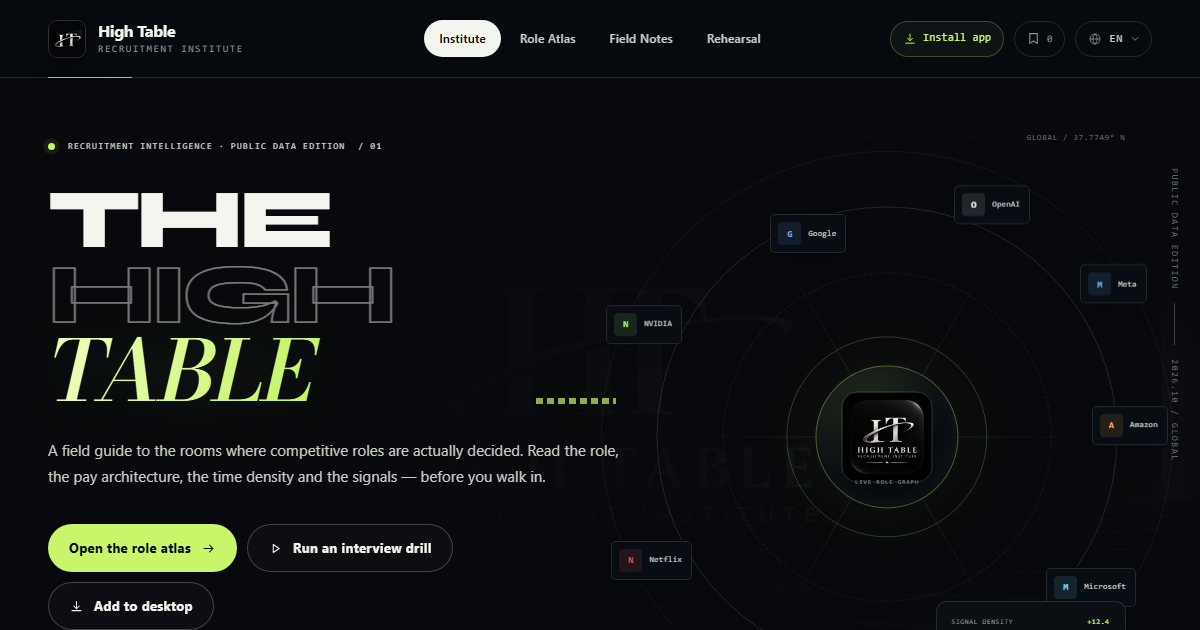
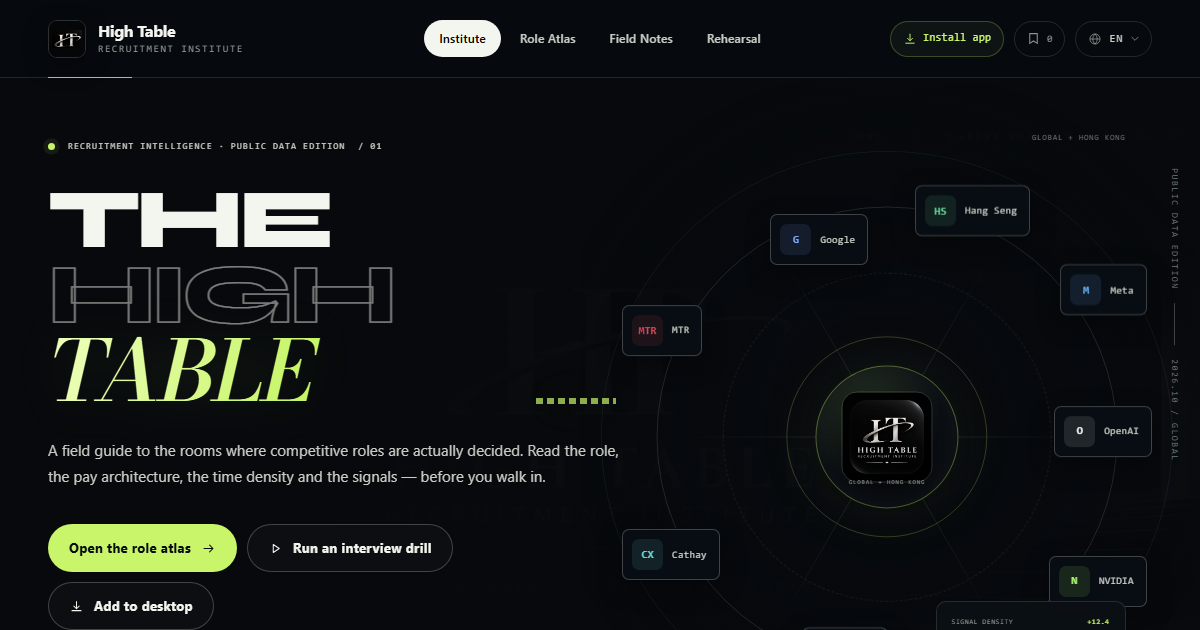
Add files via upload

diff --git a/styles.css b/styles.css
@@ -1114,6 +1114,20 @@ html[data-lang="zh"] .section-head h2 {
   min-height: 610px;
 }
 
+.hero-visual::before {
+  content: "";
+  position: absolute;
+  z-index: 0;
+  inset: -8%;
+  background: radial-gradient(
+    circle at 50% 47%,
+    rgba(7, 10, 15, 0.82) 0%,
+    rgba(7, 10, 15, 0.48) 44%,
+    rgba(7, 10, 15, 0) 72%
+  );
+  pointer-events: none;
+}
+
 .visual-coordinate {
   position: absolute;
   color: var(--muted-2);
@@ -1134,6 +1148,7 @@ html[data-lang="zh"] .section-head h2 {
 
 .signal-orbit {
   position: relative;
+  z-index: 1;
   width: min(100%, 590px);
   aspect-ratio: 1;
   margin-left: auto;
@@ -1234,12 +1249,12 @@ html[data-lang="zh"] .section-head h2 {
   position: absolute;
   display: flex;
   align-items: center;
-  gap: 7px;
-  padding: 7px 9px 7px 7px;
-  border: 1px solid var(--line);
-  border-radius: 5px;
-  background: rgba(9, 14, 20, 0.88);
-  box-shadow: 0 6px 20px rgba(0, 0, 0, 0.2);
+  gap: 9px;
+  padding: 9px 12px 9px 9px;
+  border: 1px solid var(--line-strong);
+  border-radius: 7px;
+  background: rgba(9, 14, 20, 0.94);
+  box-shadow: 0 8px 24px rgba(0, 0, 0, 0.34);
   backdrop-filter: blur(8px);
   animation: nodeFloat 6s ease-in-out infinite;
 }
@@ -1259,13 +1274,13 @@ html[data-lang="zh"] .section-head h2 {
 
 .node-mark {
   display: grid;
-  width: 23px;
-  height: 23px;
-  border-radius: 4px;
+  width: 31px;
+  height: 31px;
+  border-radius: 7px;
   color: var(--node-color, var(--paper));
   background: color-mix(in srgb, var(--node-color, var(--paper)) 11%, transparent);
   font-family: var(--font-mono);
-  font-size: 9px;
+  font-size: 11px;
   font-weight: 700;
   place-items: center;
 }
@@ -1273,17 +1288,18 @@ html[data-lang="zh"] .section-head h2 {
 .node-name {
   color: var(--paper-soft);
   font-family: var(--font-mono);
-  font-size: 8px;
+  font-size: 10px;
+  font-weight: 500;
   letter-spacing: 0.03em;
 }
 
 .node-1 { top: 8%; left: 28%; }
 .node-2 { top: 18%; right: 1%; }
-.node-3 { top: 45%; right: -3%; }
-.node-4 { bottom: 18%; right: 3%; }
+.node-3 { top: 45%; right: 0; }
+.node-4 { bottom: 18%; right: 1%; }
 .node-5 { bottom: 4%; left: 34%; }
-.node-6 { bottom: 23%; left: -2%; }
-.node-7 { top: 26%; left: -3%; }
+.node-6 { bottom: 23%; left: 0; }
+.node-7 { top: 26%; left: 0; }
 .node-8 { top: 3%; right: 23%; }
 
 .orbit-readout {
@@ -4735,26 +4751,29 @@ html[data-lang="zh"] .section-head h2 {
   }
 
   .orbit-node {
-    padding: 5px 6px;
+    gap: 6px;
+    padding: 7px 8px 7px 7px;
+    border-radius: 6px;
   }
 
   .node-mark {
-    width: 20px;
-    height: 20px;
-    font-size: 8px;
+    width: 24px;
+    height: 24px;
+    border-radius: 6px;
+    font-size: 9px;
   }
 
   .node-name {
-    font-size: 7px;
+    font-size: 8px;
   }
 
   .node-1 { top: 5%; left: 21%; }
   .node-2 { top: 12%; right: 0; }
-  .node-3 { top: 43%; right: -2%; }
+  .node-3 { top: 43%; right: -1%; }
   .node-4 { bottom: 16%; right: 0; }
   .node-5 { bottom: 0; left: 25%; }
-  .node-6 { bottom: 20%; left: -2%; }
-  .node-7 { top: 24%; left: -2%; }
+  .node-6 { bottom: 20%; left: -1%; }
+  .node-7 { top: 24%; left: -1%; }
   .node-8 { top: 0; right: 18%; }
 
   .orbit-readout {

diff --git a/app.js b/app.js
@@ -437,7 +437,14 @@ function render() {
 }
 
 function renderHomePage() {
-  const orbitCompanies = COMPANIES.slice(0, 8);
+  const hongKongOrbit = ["hkex", "cathay", "mtr", "hangseng"];
+  const orbitIds =
+    state.lang === "zh"
+      ? ["huawei", "bytedance", "tencent", "alibaba", ...hongKongOrbit]
+      : ["google", "meta", "openai", "nvidia", ...hongKongOrbit];
+  const orbitCompanies = orbitIds.map(getCompany).filter(Boolean);
+  const orbitScope =
+    state.lang === "zh" ? t("home.orbitScopeCn") : t("home.orbitScopeGlobal");
   const payArchetypes = [
     { label: t("home.payAi"), mix: { base: 50, bonus: 0, equity: 50 } },
     { label: t("home.payBigTech"), mix: { base: 60, bonus: 12, equity: 28 } },
@@ -464,9 +471,15 @@ function renderHomePage() {
   const orbitNodes = orbitCompanies
     .map(
       (company, index) => `
-        <div class="orbit-node node-${index + 1}" style="--node-color:${company.color}">
+        <div class="orbit-node node-${index + 1}" style="--node-color:${company.color}" title="${escapeHtml(company.name)}">
           <span class="node-mark">${escapeHtml(company.mark)}</span>
-          <span class="node-name">${escapeHtml(company.name)}</span>
+          <span class="node-name">${escapeHtml(
+            company.id === "cathay"
+              ? "Cathay"
+              : company.id === "hangseng"
+                ? "Hang Seng"
+                : company.name
+          )}</span>
         </div>`
     )
     .join("");
@@ -504,7 +517,7 @@ function renderHomePage() {
         </div>
       </div>
       <div class="hero-visual">
-        <span class="visual-coordinate top">GLOBAL / 37.7749° N</span>
+        <span class="visual-coordinate top">${orbitScope}</span>
         <span class="visual-coordinate left">PUBLIC SIGNAL / 2026.10</span>
         <div class="signal-orbit" aria-label="${t("home.orbitLabel")}">
           <span class="orbit-ring ring-1"></span>
@@ -516,7 +529,7 @@ function renderHomePage() {
           <span class="orbit-axis axis-c"></span>
           <div class="orbit-core">
             <img class="orbit-logo" src="./assets/high-table-logo.jpg" alt="High Table Recruitment Institute">
-            <span class="orbit-core-label">${t("home.orbitLabel")}</span>
+            <span class="orbit-core-label">${orbitScope}</span>
           </div>
           ${orbitNodes}
           <div class="orbit-readout">

diff --git a/i18n.js b/i18n.js
@@ -104,6 +104,8 @@ export const UI = {
       statPrompts: "rehearsal prompts",
       statLanguages: "working languages",
       orbitLabel: "LIVE ROLE GRAPH",
+      orbitScopeGlobal: "GLOBAL + HONG KONG",
+      orbitScopeCn: "MAINLAND + HONG KONG",
       readoutLabel: "SIGNAL DENSITY",
       readoutFoot: "{companies} firms · 6 tracks · 3 markets",
       tickerLabel: "THE TABLE",
@@ -547,6 +549,8 @@ export const UI = {
       statPrompts: "道模拟题",
       statLanguages: "种工作语言",
       orbitLabel: "实时岗位图谱",
+      orbitScopeGlobal: "国际企业 + 香港",
+      orbitScopeCn: "中国大陆 + 香港",
       readoutLabel: "信号密度",
       readoutFoot: "{companies} 家公司 · 6 个方向 · 3 个市场",
       tickerLabel: "主桌",
@@ -587,7 +591,7 @@ export const UI = {
       densityDesc: "时间稠密度综合专注负荷、周强度、on-call、会议面与变化压力。分数之外，请继续追问真实工作。",
       densityFootnote: "稠密度由岗位结构与公开员工信号综合判断，不是雇主官方指标。",
       showcaseKicker: "主桌",
-      showcaseTitle: "主桌继续扩展，每家公司都有自己的“强”",
+      showcaseTitle: "更多企业，各有各的“强”",
       showcaseDesc: "公司层面的信号很重要：同一种能力，在不同运营节奏、决策权与证据流动方式中，会被赋予不同价值。",
       showcaseCta: "查看全部岗位",
       rolesBriefs: "{n} 份画像",
@@ -990,6 +994,8 @@ export const UI = {
       statPrompts: "questions d'entraînement",
       statLanguages: "langues de travail",
       orbitLabel: "GRAPHE DE RÔLES",
+      orbitScopeGlobal: "INTERNATIONAL + HONG KONG",
+      orbitScopeCn: "CHINE CONTINENTALE + HONG KONG",
       readoutLabel: "DENSITÉ DU SIGNAL",
       readoutFoot: "{companies} firmes · 6 familles · 3 marchés",
       tickerLabel: "LA TABLE",

diff --git a/sw.js b/sw.js
@@ -1,4 +1,4 @@
-const CACHE_NAME = "high-table-shell-v9";
+const CACHE_NAME = "high-table-shell-v11";
 const APP_SHELL = [
   "./",
   "./index.html",
@@ -18,8 +18,10 @@ const APP_SHELL = [
   "./assets/icons/favicon-rounded.ico",
   "./assets/icons/favicon-rounded-32.png",
   "./assets/icons/favicon-rounded-64.png",
-  "./assets/icons/icon-192.png",
-  "./assets/icons/icon-512.png",
+  "./assets/icons/icon-rounded-192.png",
+  "./assets/icons/icon-rounded-256.png",
+  "./assets/icons/icon-rounded-384.png",
+  "./assets/icons/icon-rounded-512.png",
   "./assets/icons/icon-maskable-512.png",
   "./assets/fonts/syne-700.woff2",
   "./assets/fonts/syne-800.woff2",
